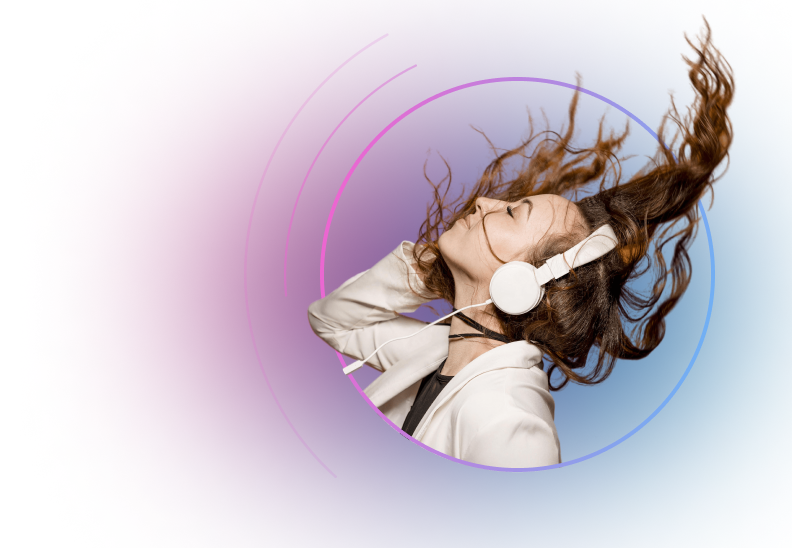
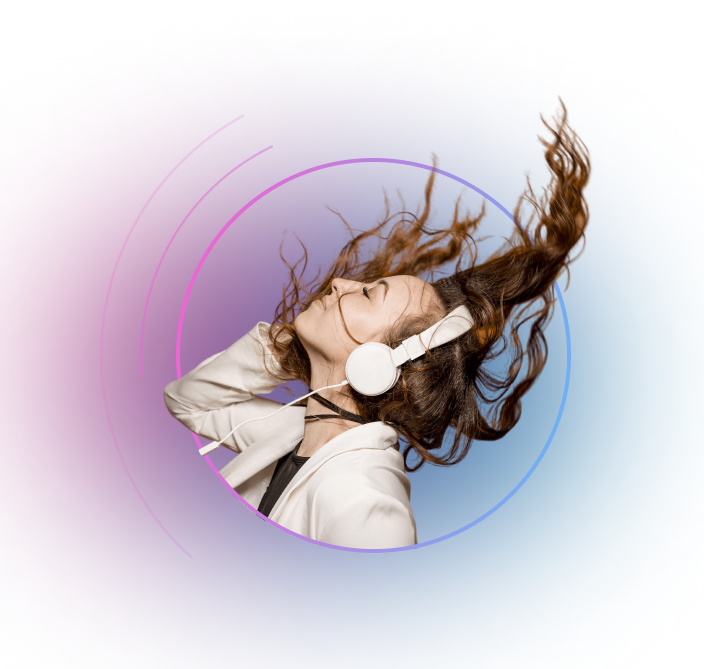
FE-2: Change background, fix position images

diff --git a/src/html/partials/sections/about.html b/src/html/partials/sections/about.html
@@ -8,7 +8,7 @@
     <div class="about__wrapper">
     <div class="about__text__wrapper">
       <h2 class="about__title">Dream Beats 3.0</h2>
-      <p class="about__text about__text--subtitle about__text--left">
+      <p class="about__text about__text--subtitle">
         Wireless noise over-ear headphones delivers premium sound while bloking extremal noise with
         Active Noise Cancelling.
       </p>
@@ -56,6 +56,23 @@
         </div>
         <picture>
           <source
+          srcset="
+            ./assets/images/about/desktop/spatial-audio@1x.webp 1x,
+            ./assets/images/about/desktop/spatial-audio@2x.webp 2x
+          "
+          media="(min-width: 1440px)"
+          type="image/webp"
+        />
+        <source
+          srcset="
+            ./assets/images/about/desktop/spatial-audio@1x.png 1x,
+            ./assets/images/about/desktop/spatial-audio@2x.png 2x
+          "
+          media="(min-width: 1440px)"
+          type="image/png"
+        />
+
+          <source
             srcset="
               ./assets/images/about/spatial-audio@1x.webp 1x,
               ./assets/images/about/spatial-audio@2x.webp 2x
@@ -97,6 +114,15 @@
               loading="lazy"
             />
           </div>
+
+          <div class="about__image__wrapper-desktop">
+            <img
+              class="about__image"
+              src="./assets/images/about/desktop/spatial-audio@1x.png"
+              alt="about-image"
+              loading="lazy"
+            />
+          </div>
         </picture>
       </li>
       <li class="about__item__articles">
@@ -108,6 +134,23 @@
           </p>
         </div>
         <picture>
+          <source
+          srcset="
+            ./assets/images/about/desktop/designed-to-fit-you@1x.webp 1x,
+            ./assets/images/about/desktop/designed-to-fit-you@2x.webp 2x
+          "
+          media="(min-width: 1440px)"
+          type="image/webp"
+        />
+        <source
+          srcset="
+            ./assets/images/about/desktop/designed-to-fit-you@1x.png 1x,
+            ./assets/images/about/desktop/designed-to-fit-you@2x.png 2x
+          "
+          media="(min-width: 1440px)"
+          type="image/png"
+        />
+
           <source
             srcset="
               ./assets/images/about/designed-to-fit-you@1x.webp 1x,
@@ -150,6 +193,15 @@
               loading="lazy"
             />
           </div>
+
+          <div class="about__image__wrapper-desktop">
+            <img
+              class="about__image"
+              src="./assets/images/about/desktop/designed-to-fit-you@1x.png"
+              alt="about-image"
+              loading="lazy"
+            />
+          </div>
         </picture>
       </li>
       <li class="about__item__articles">
@@ -164,6 +216,23 @@
           </p>
         </div>
         <picture>
+          <source
+          srcset="
+            ./assets/images/about/desktop/enhanced-by-apple@1x.webp 1x,
+            ./assets/images/about/desktop/enhanced-by-apple@2x.webp 2x
+          "
+          media="(min-width: 1440px)"
+          type="image/webp"
+        />
+        <source
+          srcset="
+            ./assets/images/about/desktop/enhanced-by-apple@1x.png 1x,
+            ./assets/images/about/desktop/enhanced-by-apple@2x.png 2x
+          "
+          media="(min-width: 1440px)"
+          type="image/png"
+        />
+
           <source
             srcset="
               ./assets/images/about/enhanced-by-apple@1x.webp 1x,
@@ -206,6 +275,15 @@
               loading="lazy"
             />
           </div>
+
+          <div class="about__image__wrapper-desktop">
+            <img
+              class="about__image"
+              src="./assets/images/about/desktop/enhanced-by-apple@1x.png"
+              alt="about-image"
+              loading="lazy"
+            />
+          </div>
         </picture>
       </li>
       <li class="about__item__articles">
@@ -219,6 +297,23 @@
           </p>
         </div>
         <picture>
+          <source
+          srcset="
+            ./assets/images/about/desktop/up-to-22-hours@1x.webp 1x,
+            ./assets/images/about/desktop/up-to-22-hours@1x.webp 2x
+          "
+          media="(min-width: 1440px)"
+          type="image/webp"
+        />
+        <source
+          srcset="
+            ./assets/images/about/desktop/up-to-22-hours@1x.png 1x,
+            ./assets/images/about/desktop/up-to-22-hours@1x.png 2x
+          "
+          media="(min-width: 1440px)"
+          type="image/png"
+        />
+
           <source
             srcset="
               ./assets/images/about/up-to-22-hours@1x.webp 1x,
@@ -257,6 +352,15 @@
             <img
               class="about__image"
               src="./assets/images/about/up-to-22-hours@1x.png"
+              alt="about-image"
+              loading="lazy"
+            />
+          </div>
+
+          <div class="about__image__wrapper-desktop">
+            <img
+              class="about__image"
+              src="./assets/images/about/desktop/up-to-22-hours@1x.png"
               alt="about-image"
               loading="lazy"
             />

diff --git a/src/assets/scss/components/_about.scss b/src/assets/scss/components/_about.scss
@@ -6,33 +6,15 @@
 .about__wrapper {
   padding-top: 20px;
   padding-bottom: 24px;
-  background-image: url(../images/about/mobile/bg@1x.png);
-  background-size: cover;
-  background-repeat: no-repeat;
-  background-position: center;
-  background-color: var(--primary-bg);
+  background: var(--translucent-bg);
   box-shadow: var(--primary-shadow);
   border-radius: 16px;
   // border: 1px solid red;
-    @include mq(retina) {
-      background-image: url(../images/about/mobile/bg@2x.png);
-      }
 
   @include mq(tablet) {
   padding-top: 40px;
   padding-bottom: 40px;
-  background-image: url(../images/about/tablet/bg@1x.png);
-    @include mq(retina) {
-      background-image: url(../images/about/tablet/bg@2x.png);
-      }
   }
-
-  @include mq(desktop) {
-    background-image: url(../images/about/bg@1x.png);
-  }
-    @include mq(retina) {
-      background-image: url(../images/about/bg@2x.png);
-      }
 }
 
 .about__list {
@@ -42,9 +24,10 @@
     grid-template-columns: 1fr 1fr;
   }
   @include mq(desktop) {
-    grid-template-columns: 1fr 1fr 1fr 1fr;
-    grid-template-rows: 1fr;
-
+    padding-left: 40px;
+    padding-right: 40px;
+    display: flex;
+    justify-content: space-between;
   }
 }
 
@@ -115,15 +98,14 @@
 }
 
 .about__text--left {
-  @include mq(mobile-only) {
     text-align: left;
-  }
 }
 
 .about__text--subtitle {
+  text-align: left;
+
   @include mq(tablet) {
-    display: flex;
-    justify-content: center;
+    text-align: center;
     margin-top: 24px;
   }
   @include mq(desktop) {
@@ -145,33 +127,21 @@
 
 .about__item__articles {
   // border: 1px solid yellow;
-  background-image: url(../images/about/mobile/bg-1@1x.png);
-  background-size: cover;
-  background-repeat: no-repeat;
-  background-position: center;
-  background-color: var(--primary-bg);
+  background: var(--translucent-bg);
+  box-shadow: var(--primary-shadow);
   box-shadow: var(--primary-shadow);
   border-radius: 16px;
   overflow: hidden;
-    @include mq(retina) {
-      background-image: url(../images/about/mobile/bg-1@2x.png);
-      }
 
   @include mq(tablet) {
-  background-image: url(../images/about/tablet/bg-1@1x.png);
-    @include mq(retina) {
-      background-image: url(../images/about/tablet/bg-1@2x.png);
-      }
+    height: 880px;
   }
 
   @include mq(desktop) {
+    height: 548px;
     display: flex;
     justify-content: space-between;
-    background-image: url(../images/about/bg-1@1x.png);
   }
-    @include mq(retina) {
-      background-image: url(../images/about/bg-1@2x.png);
-      }
 }
 
 .about__item__articles:not(:first-child) {
@@ -184,6 +154,9 @@
   @include mq(tablet) {
     border-bottom-right-radius: 300px;
   }
+  @include mq(desktop) {
+    padding-left: 40px;
+  }
 }
 .about__item__articles:nth-child(2n) {
   border-bottom-left-radius: 130px;
@@ -193,6 +166,7 @@
   }
   @include mq(desktop) {
     flex-direction: row-reverse;
+    padding-right: 40px;
   }
 }
 
@@ -201,20 +175,39 @@
   align-items: flex-end;
   justify-content: center;
   width: 100%;
-  height: 216px;
+  height: 236px;
   // border: 1px solid rgb(230, 27, 172);
 
 
   @include mq(tablet) {
-    height: 548px;
-    align-items: center;
-    justify-content: flex-end;
+    height: 588px;
+  }
+
+  @include mq(desktop) {
+    display: none;
   }
 }
 
-  // .about__image {
-  //   border: 1px solid red;
-  //   }
+.about__image__wrapper-desktop {
+  display: none;
+
+  @include mq(desktop) {
+    // border: 1px solid rgb(112, 230, 27);
+    display: flex;
+    align-items: center;
+    justify-content: center;
+    // width: 760px;
+    width: 791px;
+    height: 548px;
+    overflow: hidden;
+  }
+}
+
+.about__image {
+  // border: 1px solid red;
+  @include mq(desktop) {
+  }
+  }
 
 .about__articles__thumb {
   padding: 20px 20px 32px 20px;
@@ -227,8 +220,8 @@
     display: flex;
     flex-direction: column;
     justify-content: center;
-    padding: 0px 40px;
-    width: 556px;
+    padding: 0;
+    // width: 556px;
   }
   }
 

diff --git a/src/assets/scss/utils/_variables.scss b/src/assets/scss/utils/_variables.scss
@@ -16,6 +16,7 @@
 
   /* BACKGROUND COLORS */
   --primary-bg: #242424;
+  --translucent-bg: rgba(36, 36, 36, 0.4);
   --blue-bg:#0077AA;
   --purple-bg:#CF45B0;
   --violet-bg: #823FBD;
